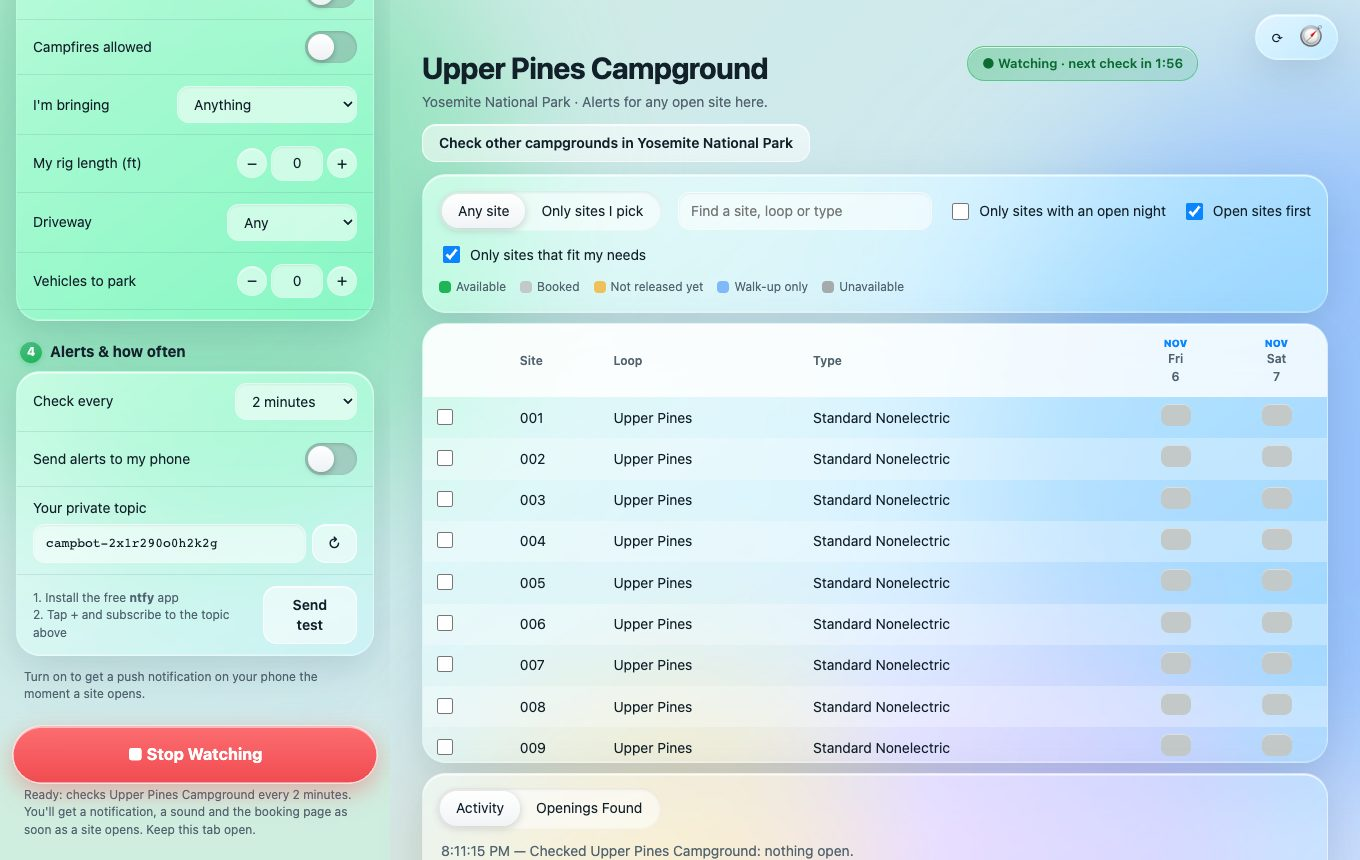
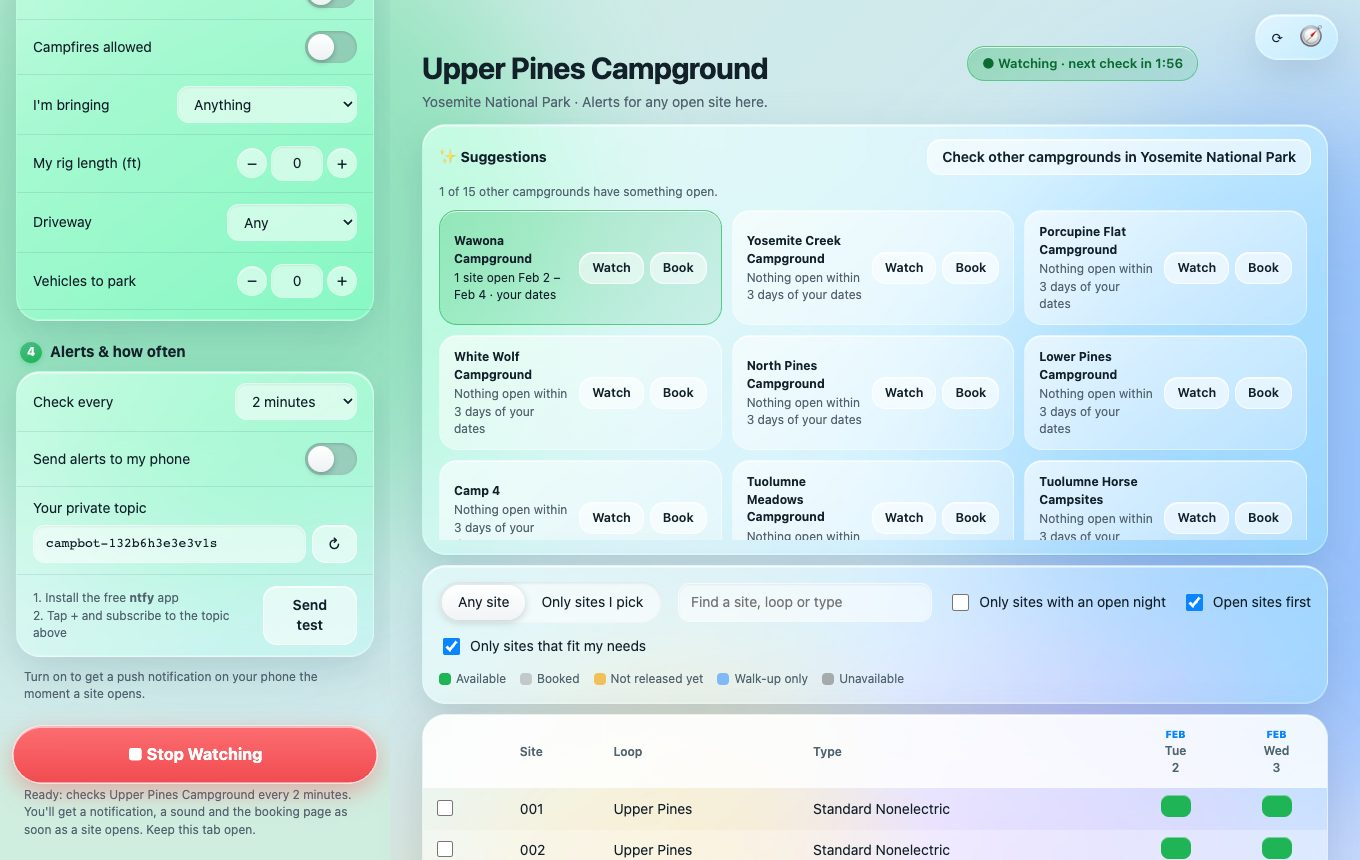
Refresh README screenshots and add the suggestions step
Claude-Session: https://claude.ai/code/session_011xS9irHYP3szMQFw83qzCS

diff --git a/README.md b/README.md
@@ -38,6 +38,11 @@ Keep **My dates are flexible** on to be alerted for any night in your range, or 
 
 ![Dates and campsite grid](docs/3-pick-dates-and-see-sites.jpg)
 
+### Nothing open? Check the rest of the park
+Press **Check other campgrounds in …** in the Suggestions box. It looks up the park's other campgrounds, checks them for your dates and needs (and up to 3 days either side), and shows what's open in green. Tap **Watch** to switch to one, or **Book** to open recreation.gov.
+
+![Suggestions](docs/3b-other-campgrounds.jpg)
+
 ### 4. Say what you need
 Under **What do you need?**, switch on what matters: electric hookup, RV site, water, group size and more. Open **More options** for site type, pets, wheelchair access, campfires, rig length and driveway type. The grid updates as you go.
 
